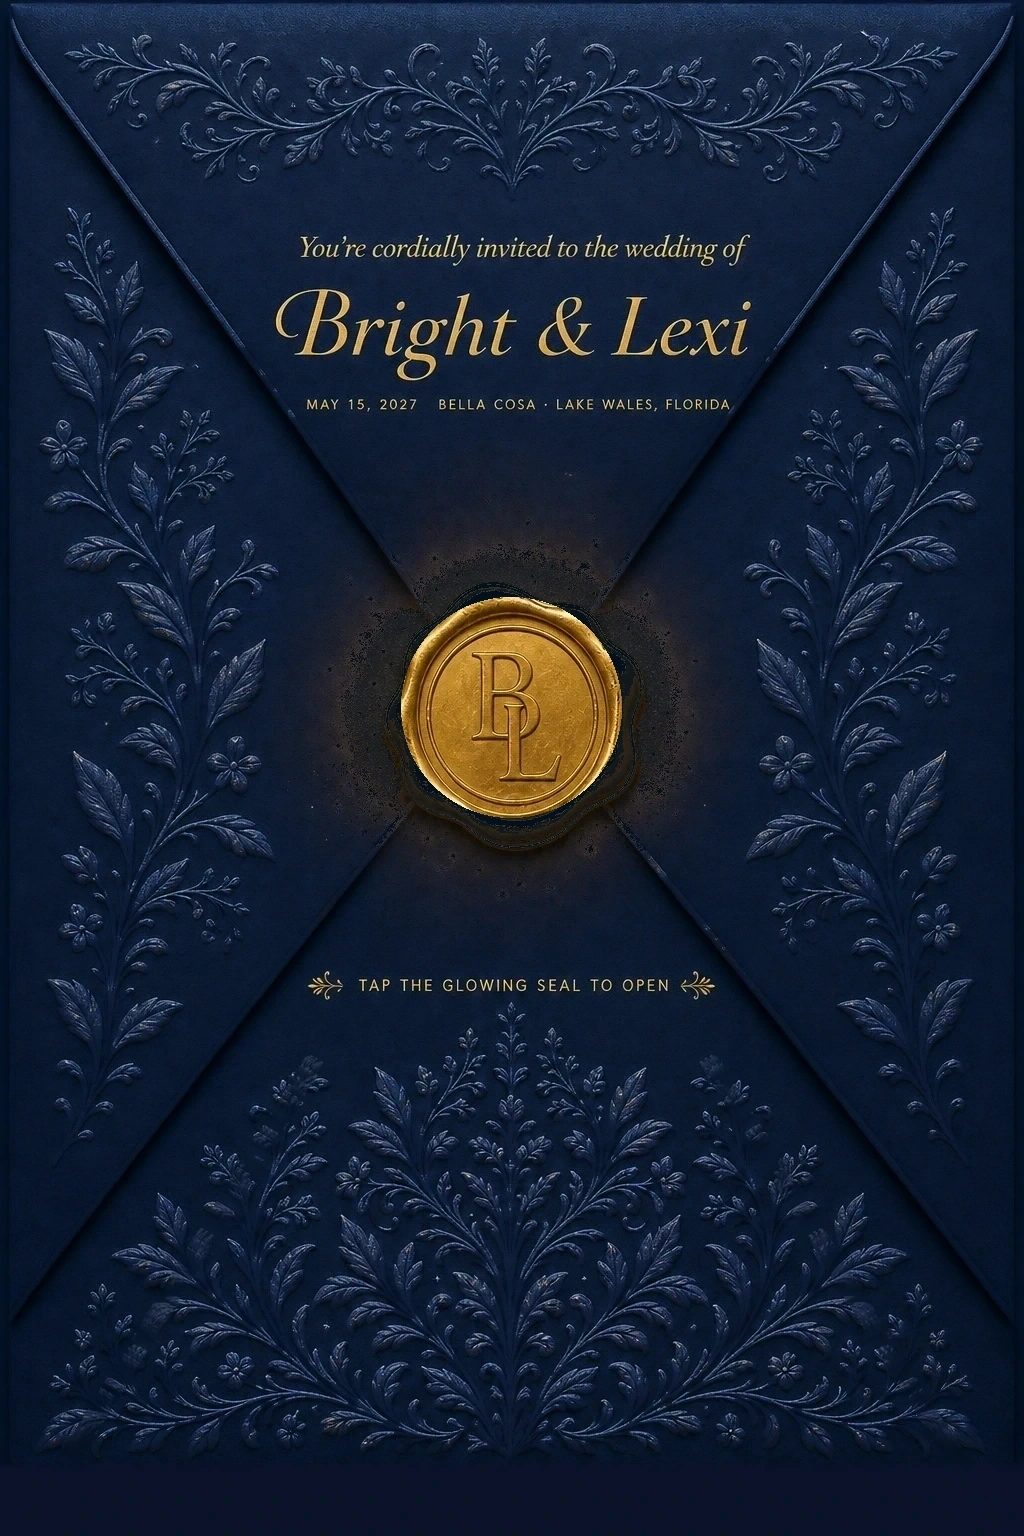
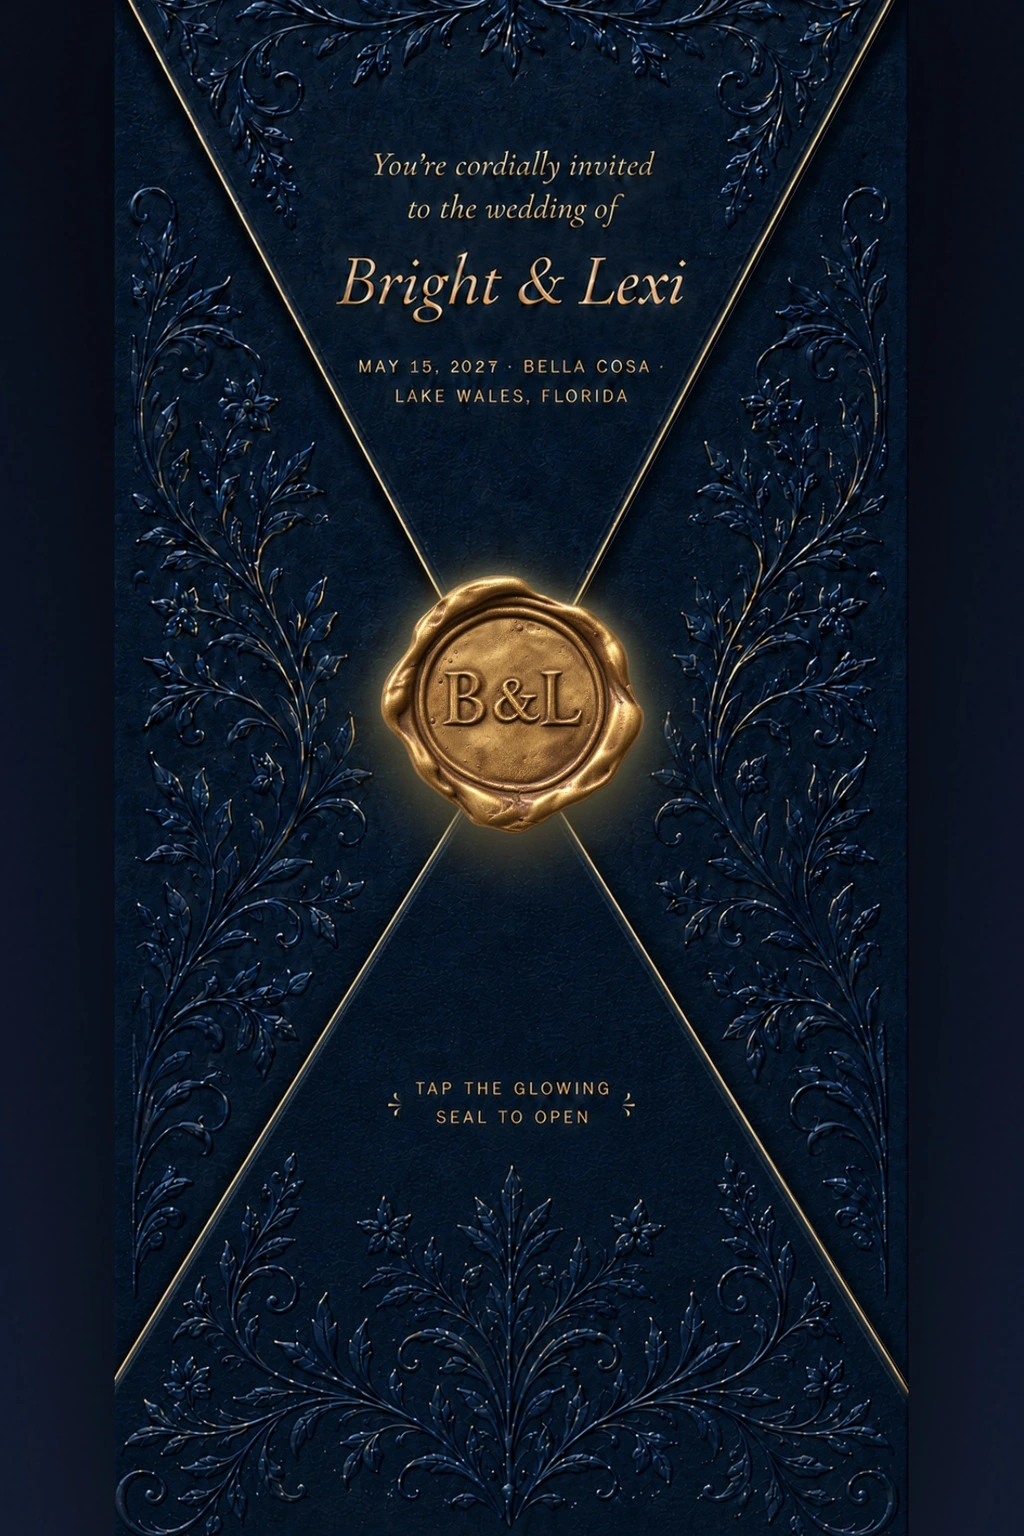
Replace envelope master art with corrected mockup
Re-export envelope-master-closed, floral glow, and seal glow from
the provided reference so creases and the B&L wax seal match the
mockup. Re-register the seal hotspot and trim baked bottom nav
since HTML controls handle Skip/RSVP.

diff --git a/app/globals.css b/app/globals.css
@@ -256,8 +256,8 @@
     --intro-gold: #d4b65c;
     --intro-gold-soft: #e8c872;
     /* Registered to seal center in envelope-master-closed.webp */
-    --intro-seal-x: 49.91%;
-    --intro-seal-y: 46.08%;
+    --intro-seal-x: 49.78%;
+    --intro-seal-y: 42.34%;
   }
 
   .intro-envelope-viewport {
@@ -336,13 +336,13 @@
     will-change: transform, opacity;
     /* Soft hole at the seal so flap art doesn’t stack under the lifting wax */
     -webkit-mask-image: radial-gradient(
-      circle at var(--intro-seal-x, 49.91%) var(--intro-seal-y, 46.08%),
+      circle at var(--intro-seal-x, 49.78%) var(--intro-seal-y, 42.34%),
       transparent 0%,
       transparent 7.2%,
       #000 11.5%
     );
     mask-image: radial-gradient(
-      circle at var(--intro-seal-x, 49.91%) var(--intro-seal-y, 46.08%),
+      circle at var(--intro-seal-x, 49.78%) var(--intro-seal-y, 42.34%),
       transparent 0%,
       transparent 7.2%,
       #000 11.5%
@@ -423,8 +423,8 @@
     mask-image: radial-gradient(circle, #000 0%, #000 88%, transparent 100%);
     -webkit-mask-repeat: no-repeat;
     mask-repeat: no-repeat;
-    -webkit-mask-position: var(--intro-seal-x, 49.91%) var(--intro-seal-y, 46.08%);
-    mask-position: var(--intro-seal-x, 49.91%) var(--intro-seal-y, 46.08%);
+    -webkit-mask-position: var(--intro-seal-x, 49.78%) var(--intro-seal-y, 42.34%);
+    mask-position: var(--intro-seal-x, 49.78%) var(--intro-seal-y, 42.34%);
     -webkit-mask-size: 0% 0%;
     mask-size: 0% 0%;
     transition:
@@ -475,7 +475,7 @@
   }
 
   .envelope-closed-master {
-    transform-origin: var(--intro-seal-x, 49.91%) var(--intro-seal-y, 46.08%);
+    transform-origin: var(--intro-seal-x, 49.78%) var(--intro-seal-y, 42.34%);
     transition:
       opacity calc(var(--intro-open, 2800ms) * 0.85) ease,
       transform var(--intro-open, 2800ms) cubic-bezier(0.22, 1, 0.36, 1),
@@ -541,8 +541,8 @@
     mask-image: radial-gradient(circle, #000 0%, #000 68%, transparent 92%);
     -webkit-mask-repeat: no-repeat;
     mask-repeat: no-repeat;
-    -webkit-mask-position: var(--intro-seal-x, 49.91%) var(--intro-seal-y, 46.08%);
-    mask-position: var(--intro-seal-x, 49.91%) var(--intro-seal-y, 46.08%);
+    -webkit-mask-position: var(--intro-seal-x, 49.78%) var(--intro-seal-y, 42.34%);
+    mask-position: var(--intro-seal-x, 49.78%) var(--intro-seal-y, 42.34%);
     -webkit-mask-size: 0% 0%;
     mask-size: 0% 0%;
     transition:

diff --git a/components/entry/intro/WaxSealButton.tsx b/components/entry/intro/WaxSealButton.tsx
@@ -37,7 +37,7 @@ export function WaxSealButton({
     <>
       <div
         className={cn(
-          "intro-seal-wrap absolute left-1/2 top-[var(--intro-seal-y,46.08%)] z-30 -translate-x-1/2 -translate-y-1/2",
+          "intro-seal-wrap absolute left-1/2 top-[var(--intro-seal-y,42.34%)] z-30 -translate-x-1/2 -translate-y-1/2",
           "transition-opacity duration-500",
           !visible && "opacity-0",
           idleTwinkle && "is-idle-twinkle",

diff --git a/components/entry/intro/Envelope.tsx b/components/entry/intro/Envelope.tsx
@@ -38,8 +38,8 @@ export function Envelope({ phase, reduceMotion, onActivate }: EnvelopeProps) {
       )}
       style={
         {
-          ["--intro-seal-x" as string]: "49.91%",
-          ["--intro-seal-y" as string]: "46.08%",
+          ["--intro-seal-x" as string]: "49.78%",
+          ["--intro-seal-y" as string]: "42.34%",
         } as CSSProperties
       }
     >
